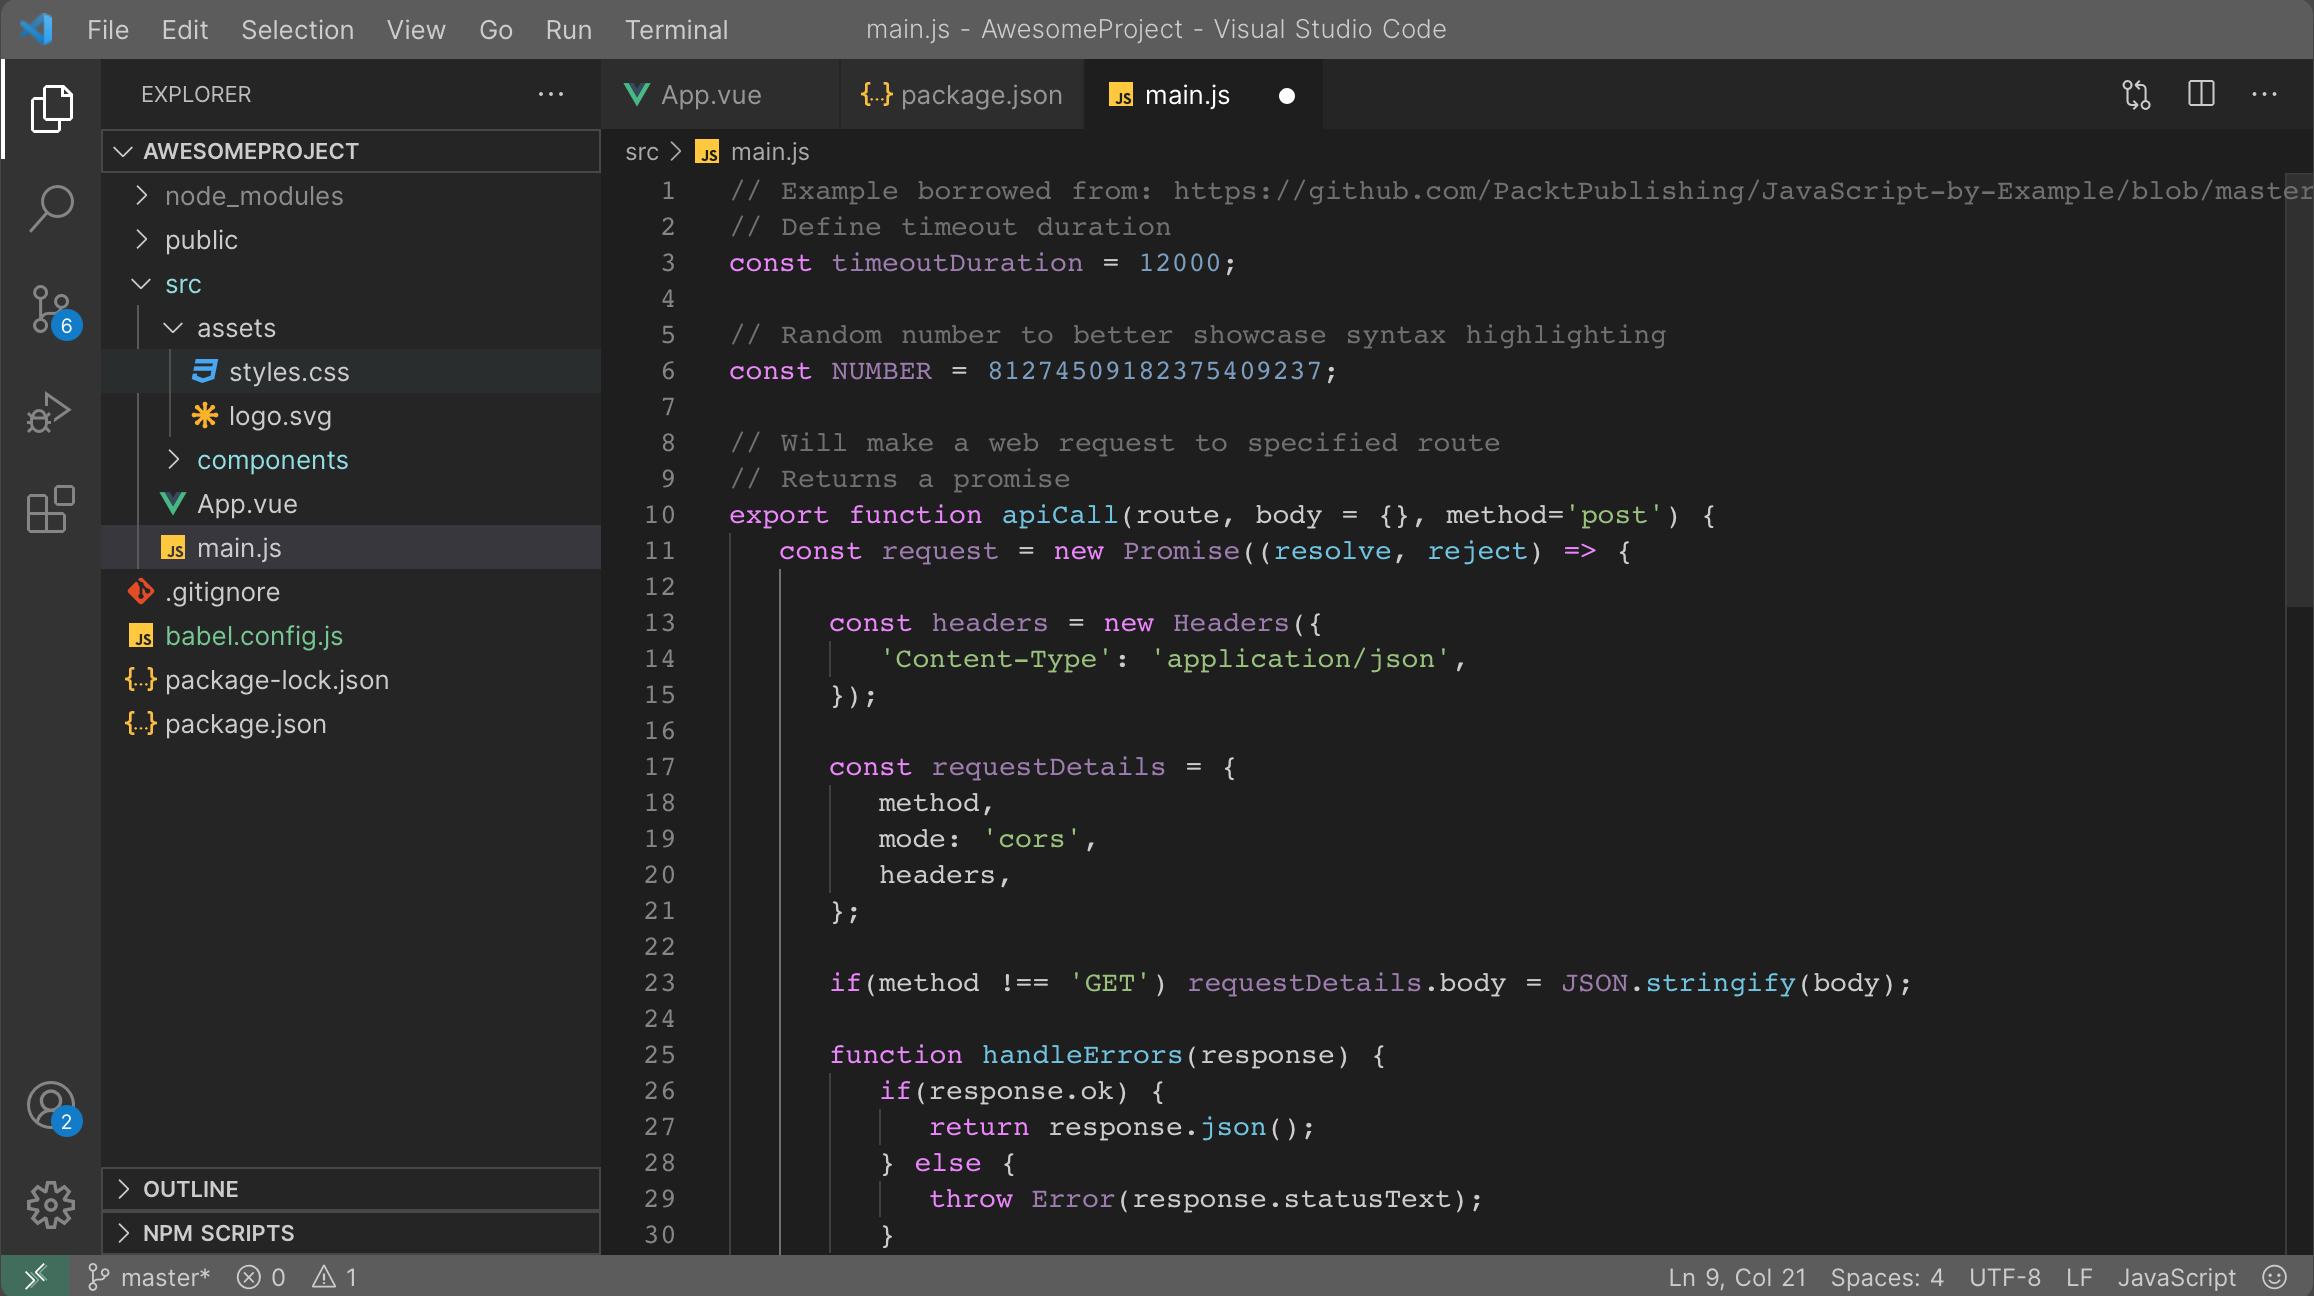
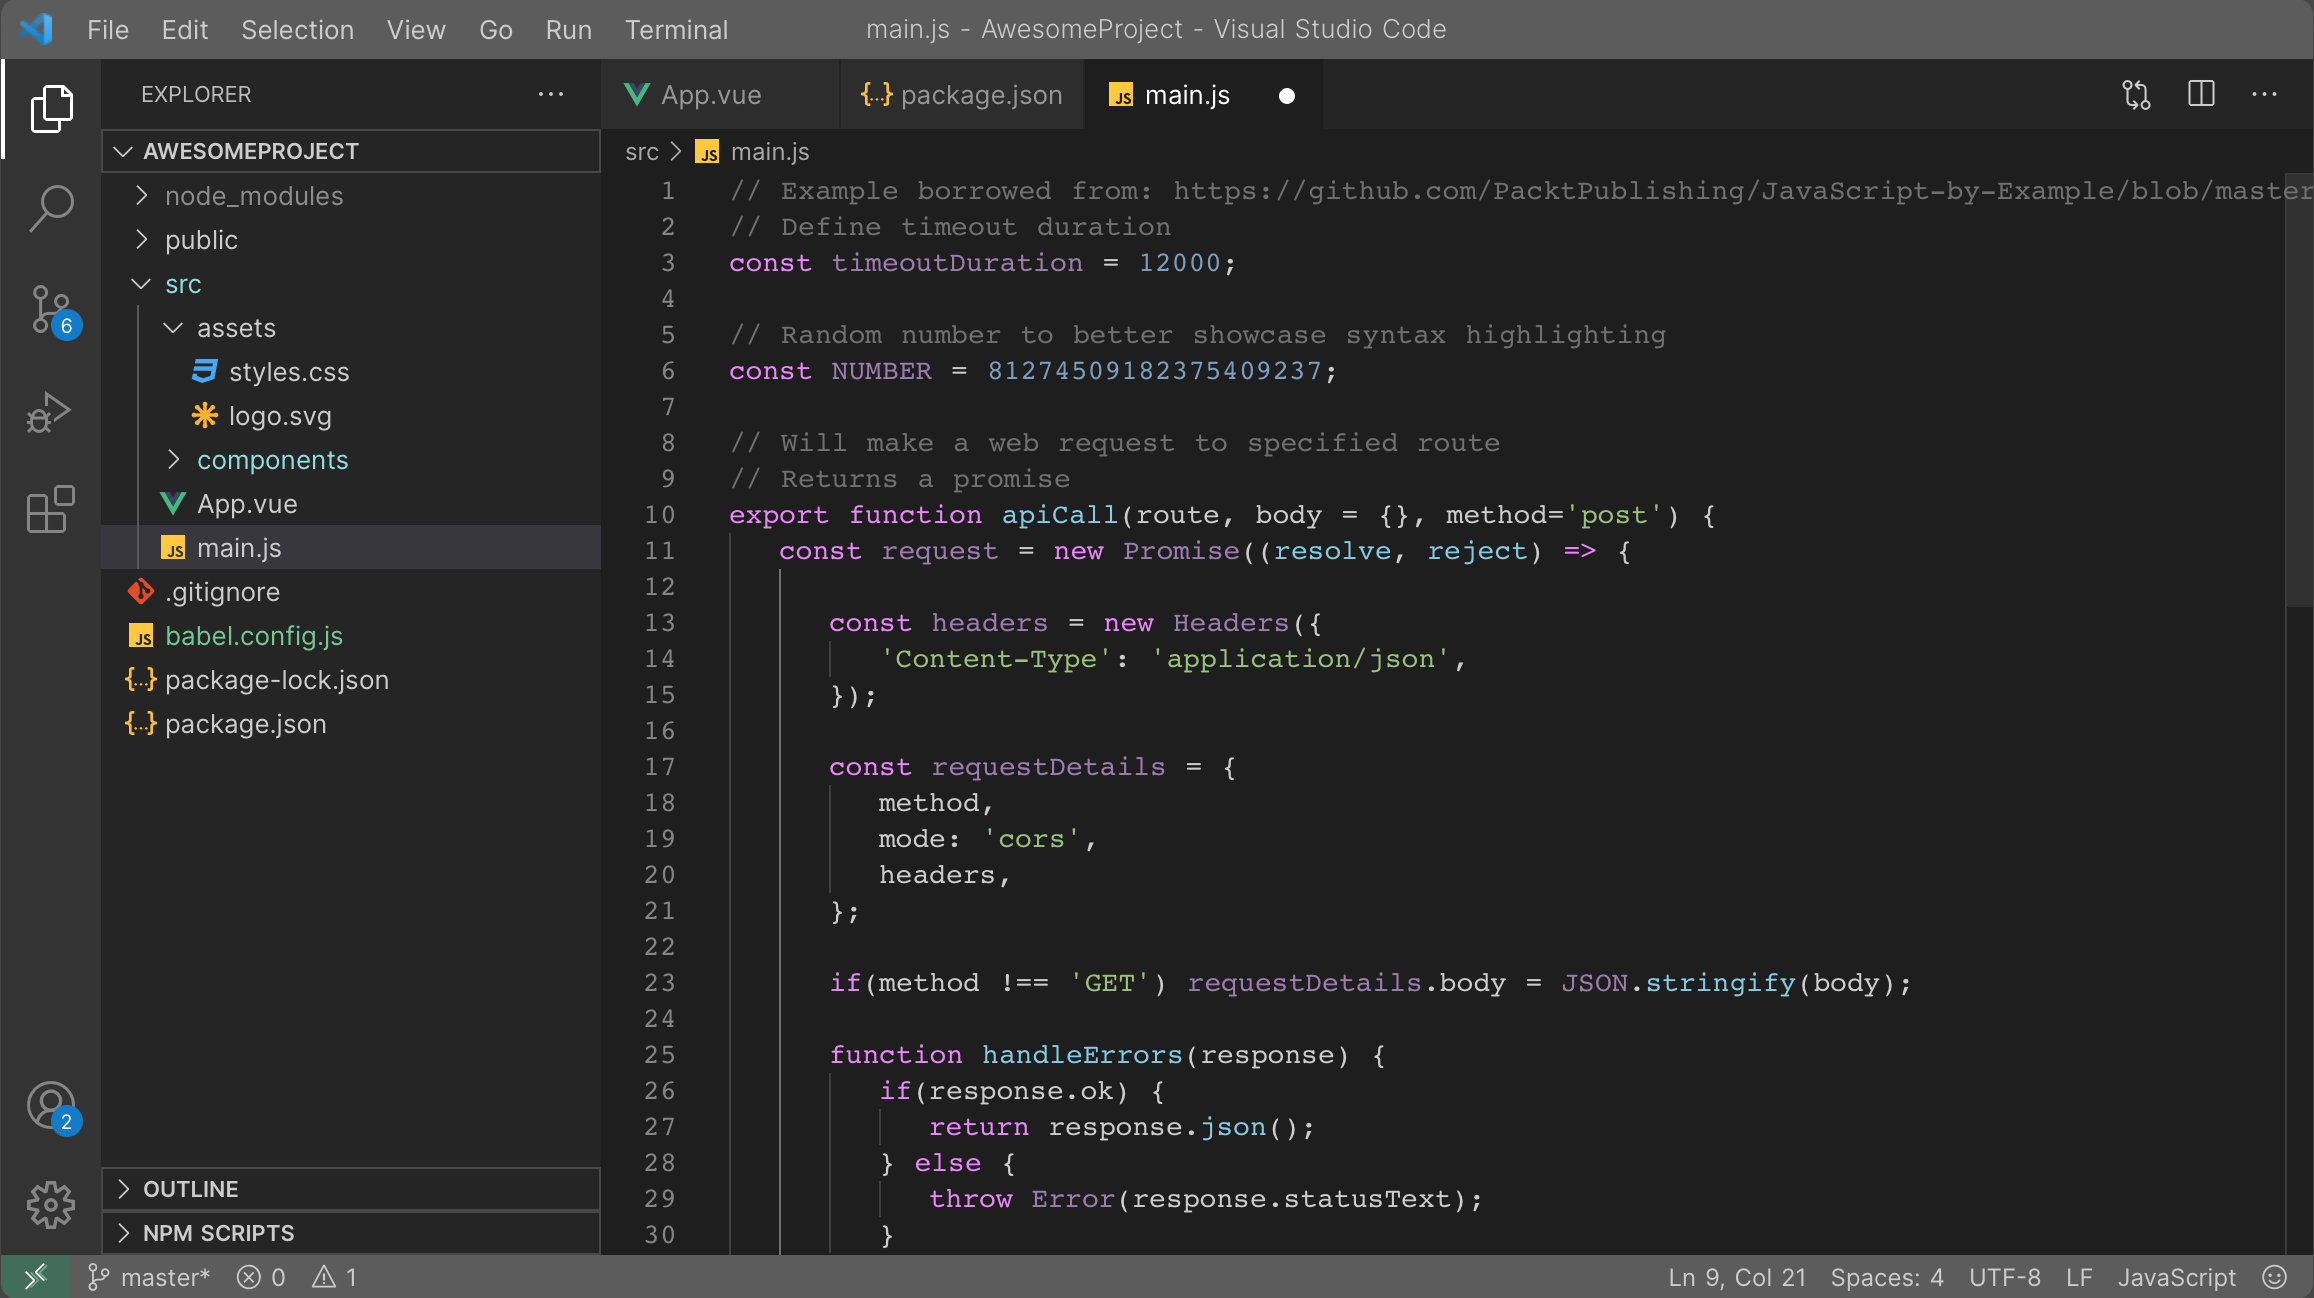
modified function color to not be so intense

diff --git a/CHANGELOG.md b/CHANGELOG.md
@@ -2,8 +2,11 @@
 
 All notable changes to the "dark-solarin-2" extension are documented in this file.
 
+## v1.0.2
+- Updated functions/methods color to be less intense
+
 ## v1.0.1
-- Updated functions/methods color to not be so intense
+- Updated functions/methods color to be less intense
 
 ## v1.0.0
 - Initial release
